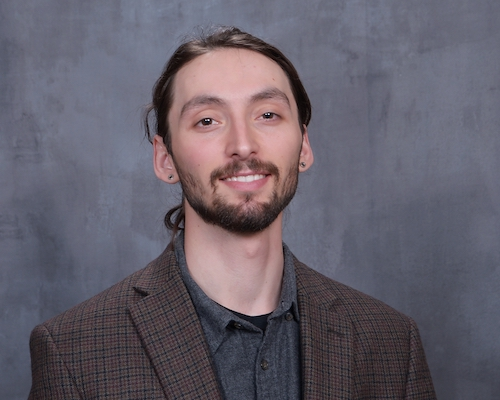
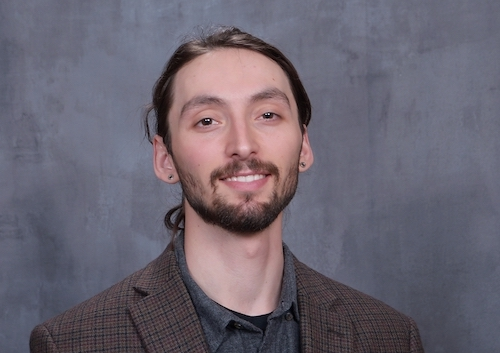
bio img css

Changed region(s): [[0.06, 0.0623, 0.9, 1.0], [0.96, 0.9037, 1.0, 1.0], [0.03, 0.9972, 0.06, 1.0]]

diff --git a/src/components/Aboutme/Headshot.js b/src/components/Aboutme/Headshot.js
@@ -10,11 +10,12 @@ const Headshot = () => {
     <Box
       className="box"
       sx={{
-        padding: '25px',
-        maxWidth: '100%'
+        padding: '20px',
+        margin: '10px'
       }}>
-      <div className="overlay">
-        <img src={headshot} style={{ maxWidth: '100%', height: '100%', border: '1px solid #34a92c', opacity: 0.8 }} />
+
+      <img src={headshot} style={{ width: '100%', maxWidth: '350px', border: '1px solid #34a92c', opacity: 0.8 }} />
+      <div className="overlay" >
       </div>
     </Box>
   );

diff --git a/src/components/Aboutme/index.js b/src/components/Aboutme/index.js
@@ -13,10 +13,10 @@ const Aboutme = React.forwardRef((props, refs) => {
       sx={{ flexGrow: 1 }}
     >
       <Grid container spacing={2} sx={{ py: 3 }}>
-        <Grid item xs={12} sm={6} md={8}>
+        <Grid item xs={12} sm={6} md={8} >
           <Bio />
         </Grid>
-        <Grid item xs={12} sm={6} md={4} sx={{ display: 'flex', alignItems: 'center' }}>
+        <Grid item xs={12} sm={6} md={4} sx={{ display: 'flex', alignItems: 'center', justifyContent: 'center' }}>
           <Headshot />
         </Grid>
       </Grid>
